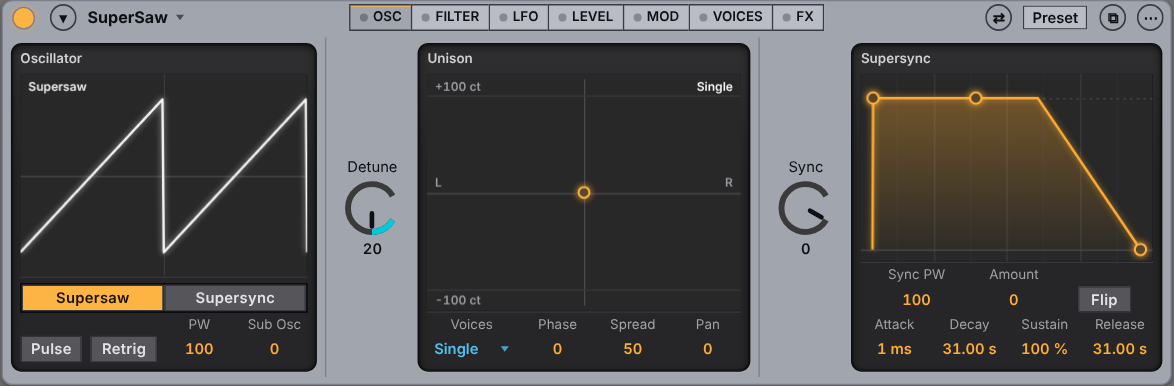
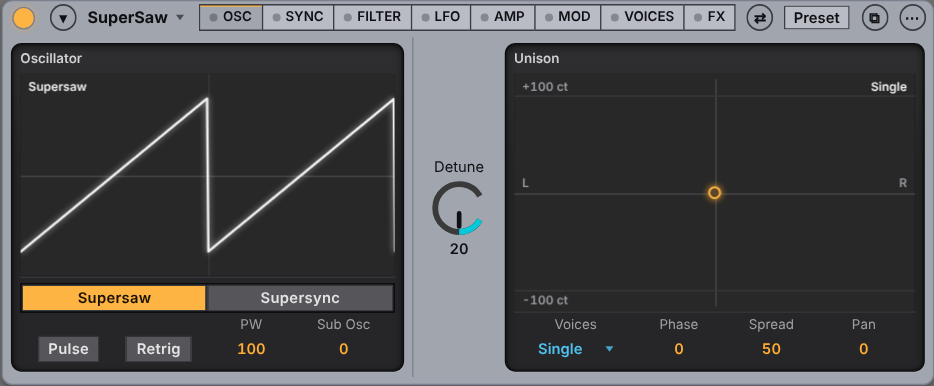
SuperSaw card redesign: OSC + Unison, own SYNC tab, AMP; narrower card
Claude-Session: https://claude.ai/code/session_016R99TjSh2G5U2VqVgMNHhT

diff --git a/js/flmpanels.js b/js/flmpanels.js
@@ -546,10 +546,12 @@ export function addFlmPanels(VI) {
       { name: 'Chorus', on: 33, build: () => DS('Chorus', { g: chorusDisp(k, { on: 33, rate: 34, mod: 35, mix: 36, min: 84, flm: true }), rows: [[NUM(k, 34, 'Rate'), NUM(k, 35, 'Mod'), NUM(k, 36, 'Mix')]] }) },
       { name: 'Phaser', on: 37, build: () => DS('Phaser', { g: phaserDisp(k, { on: 37, speed: 38, width: 39, fb: 40, freq: 41, mix: 42, min: 84, flm: true }), rows: [[NUM(k, 38, 'Speed'), NUM(k, 39, 'Width'), NUM(k, 40, 'Feedback'), NUM(k, 41, 'Freq'), NUM(k, 42, 'Mix')]] }) }])],
   ], { 2: () => k.get(12) !== 0, 3: () => k.get(13) !== 0, 5: () => [25, 28, 33, 37].some((o) => k.get(o) > 0.5) });
-  VI[33] = (k) => tabs(k, ['OSC', 'FILTER', 'LFO', 'LEVEL', 'MOD', 'VOICES', 'FX'], [
+  // SuperSaw (redesign 2026-11-16): one or two sections a tab as the other FLM synths (the old OSC tab held three side by side, ~1200 px):
+  // OSC = the oscillator + its unison, SYNC = Supersync's own sweep envelope (lit while the Osc Mode is Supersync), AMP = the amp envelope + output
+  VI[33] = (k) => tabs(k, ['OSC', 'SYNC', 'FILTER', 'LFO', 'AMP', 'MOD', 'VOICES', 'FX'], [
     () => [DS('Oscillator', { g: ssWave(k), rows: [CHH(k, 1, ['Supersaw', 'Supersync']), [TG(k, 0, 'Pulse', 46), TG(k, 2, 'Retrig', 50), NUM(k, 3, 'PW'), NUM(k, 4, 'Sub Osc')]] }),
-      DS('Unison', { k: [KN(k, 6, 'Detune')], g: ssUnison(k), rows: [[MEN(k, 5, 'Voices', 66), NUM(k, 9, 'Phase'), NUM(k, 8, 'Spread'), NUM(k, 7, 'Pan')]] }),
-      DS('Supersync', { k: [KN(k, 10, 'Sync')], g: env(k, 12, 13, 14, 15, OR), rows: [[NUM(k, 11, 'Sync PW'), NUM(k, 16, 'Amount'), TG(k, 17, 'Flip', 40)], ADSRN(k, 12, 13, 14, 15)] })],
+      DS('Unison', { k: [KN(k, 6, 'Detune')], g: ssUnison(k), rows: [[MEN(k, 5, 'Voices', 66), NUM(k, 9, 'Phase'), NUM(k, 8, 'Spread'), NUM(k, 7, 'Pan')]] })],
+    () => [DS('Supersync', { k: [KN(k, 10, 'Sync')], g: env(k, 12, 13, 14, 15, OR), rows: [[NUM(k, 11, 'Sync PW'), NUM(k, 16, 'Amount'), TG(k, 17, 'Flip', 40)], ADSRN(k, 12, 13, 14, 15)] })],
     () => [DS('Filter', { k: [KN(k, 18, 'Cutoff'), KN(k, 19, 'Reso')], g: filt(k, 18, 19, () => 0), rows: [[NUM(k, 20, 'Kbd Trk'), NUM(k, 21, 'Vel Trk')]] }),
       DS('Filter Envelope', { g: env(k, 22, 23, 24, 25, OR, () => 'Amount ' + Math.round(k.get(26))), rows: [ADSRN(k, 22, 23, 24, 25)], r: [KN(k, 26, 'Amount')] })],
     () => [DS('LFO', { k: [KN(k, 32, 'Amount')], g: lfo(k, { shape: 30, amt: 32, mode: 27, rate: 28, sync: 29, att: 31 }),
@@ -560,5 +562,5 @@ export function addFlmPanels(VI) {
     () => [fxPage(k, [
       { name: 'Distortion', build: () => DS('Distortion', { k: [KN(k, 52, 'Drive')], g: distWave(k, { drive: 52, dmax: 99, gain: 53 }), rows: [[NUM(k, 53, 'Gain')]] }) },
       { name: 'Delay', build: () => DS('Delay', { g: taps(k, { time: 54, fb: 55, filt: 56, mix: 57, beats: (i) => SS_DELAY_BEATS[clamp(Math.round(i), 0, 4)] }), rows: [[MEN(k, 54, 'Time', 64), NUM(k, 55, 'Feedback'), NUM(k, 56, 'Filter'), NUM(k, 57, 'Mix')]] }) }])],
-  ], { 2: () => k.get(32) !== 0, 6: () => k.get(52) > 0 || k.get(57) > 0 });
+  ], { 1: () => Math.round(k.get(1)) === 1, 3: () => k.get(32) !== 0, 7: () => k.get(52) > 0 || k.get(57) > 0 });
 }

diff --git a/sw.js b/sw.js
@@ -1,5 +1,5 @@
 // Offline cache. The cache name contains a hash of every file, so a new deploy replaces the old cache automatically.
-const CACHE = 'mobiledaw-8ffd0151dff3';
+const CACHE = 'mobiledaw-de83cc597508';
 const ASSETS = ["./", "./css/app.css", "./css/ableton.css", "./css/float.css", "./css/live.css", "./icons/icon-192.png", "./icons/icon-512.png", "./icons/icon-maskable-512.png", "./index.html", "./js/about.js", "./js/aboutdata.js", "./js/audioedit.js", "./js/autocurve.js", "./js/automate.js", "./js/autosave.js", "./js/browser.js", "./js/chords.js", "./js/colorpick.js", "./js/defs.js", "./js/demos.js", "./js/devices.js", "./js/devviz.js", "./js/drumpad.js", "./js/edgeguard.js", "./js/editor.js", "./js/engine.js", "./js/engine/analog.js", "./js/engine/audioops.js", "./js/engine/cmdtext.js", "./js/engine/core.js", "./js/engine/dsp.js", "./js/engine/drift.js", "./js/engine/ds.js", "./js/engine/fx.js", "./js/engine/fx2.js", "./js/engine/fx3.js", "./js/engine/fx4.js", "./js/engine/fx5.js", "./js/engine/fx6.js", "./js/engine/fx7.js", "./js/engine/fx8.js", "./js/engine/granulator.js", "./js/engine/impulse.js", "./js/engine/instruments.js", "./js/engine/live.js", "./js/engine/meld.js", "./js/engine/meter.js", "./js/engine/mp3.js", "./js/engine/mp3tables.js", "./js/engine/nativesink.js", "./js/engine/operator.js", "./js/engine/phys.js", "./js/engine/poli.js", "./js/engine/sabio.js", "./js/engine/sf2.js", "./js/engine/simpler.js", "./js/engine/flmsyn.js", "./js/engine/hdgms.js", "./js/engine/hdmfx.js", "./js/engine/hdmini.js", "./js/engine/hdsaw.js", "./js/engine/smf.js", "./js/engine/stretchworker.js", "./js/engine/tmap.js", "./js/engine/wav.js", "./js/engine/waveops.js", "./js/engine/mdaw.wasm", "./js/engine/wasmengine.js", "./js/engine/web.js", "./js/engine/worklet-wasm.js", "./js/engine/worklet.js", "./js/floatwin.js", "./js/fps.js", "./js/fxviz.js", "./js/fxkit.js", "./js/flmpanels.js", "./js/flmfx.js", "./js/flm3osc.js", "./js/flmlayout.js", "./js/flmlive.js", "./js/slicerdetect.js", "./js/fxlaw.js", "./js/flmviz.js", "./js/gesture.js", "./js/history.js", "./js/import/als.js", "./js/import/build.js", "./js/import/flm.js", "./js/import/flp.js", "./js/import/fxmap.js", "./js/import/gm.js", "./js/import/index.js", "./js/import/ui.js", "./js/keymap.js", "./js/keys.js", "./js/layout.js", "./js/liveinst.js", "./js/liveui.js", "./js/log.js", "./js/main.js", "./js/midi.js", "./js/midiio.js", "./js/minimeters.js", "./js/mmdraw.js", "./js/native.js", "./js/perf.js", "./js/mixer.js", "./js/prefs.js", "./js/presetlib.js", "./js/presets.js", "./js/project.js", "./js/projects.js", "./js/pwa.js", "./js/quicksave.js", "./js/reorder.js", "./js/safdir.js", "./js/settingsui.js", "./js/storage.js", "./js/tempo.js", "./js/theme.js", "./js/timeline.js", "./js/topbar.js", "./js/touchhit.js", "./js/ui.js", "./js/uiscale.js", "./js/waveform.js", "./js/zip.js", "./manifest.json"];
 self.addEventListener('install', (e) => { e.waitUntil(caches.open(CACHE).then((c) => c.addAll(ASSETS)).then(() => self.skipWaiting())); });
 self.addEventListener('activate', (e) => {

diff --git a/docs/HANDOFF.md b/docs/HANDOFF.md
@@ -787,3 +787,4 @@ Permintaan pemilik: SEMUA efek dan instrumen diganti dengan set stok Ableton Liv
 - Tombol card FX / instrumen + Device/Keys (pemilik 2026-11-16, Live 12): `.lv-btn` persegi (radius 1px) dengan outline 1px `--btn-bd` (terang #3a3c43, Dark Live 12 #16171c, lainnya `--lv-edge`); varian bergaris warna (cyan/oranye, tuts piano, tombol bulat) tetap. Tab seksi di judul card persegi, tab terbuka = warna body + garis oranye atas. Judul card: ⇄ ⧉ ⋯ ▾ ikon polos tanpa kotak; Mix / Preset field persegi kecil (Mix aktif = oranye). Device / Keys = pasangan field seperti Arrange/Mixer. Contoh: `docs/redesign/buttons/`.
 - Impor FLM (2026-11-16): STR1/STRC per Honeydew `read.rs slot()` + `sample_cache.rs str1()` — STR1 menang penuh (mode, rasio, semitone); STRC saja = mode 1 + semitone dibulatkan; rasio hanya saat SYNC on, semitone selalu; Speed (PRMS[2]) selalu resample di atasnya (digabung jadi satu warp: rasio x 2^(-rp/12), pitch st+rp). Pad drum kini membaca STR1/STRC juga (`q.warp` -> `q.dsample` dirender saat load, dipakai `sendPad`). Klip SYNC dengan rasio != 1 diberi `srcBpm = rasio x bpm`, `warpAuto` (ikut perubahan tempo seperti Honeydew `song/tempo.rs`), `swing: 0`. Bukti: HIPDUT punya 3 pad SYNC (1.135-1.477) yang dulu diputar tanpa stretch; Caest La vie: 677/677 klip warp dirender dengan panjang benar (web).
 - Layering instrumen (FLM: semua instrumen di rack channel berbunyi, Honeydew `process_racks`): channel dengan 2+ synth -> Instrument Rack, chain k = instrumen k + efek di antara instrumen k dan instrumen terakhir; efek setelah instrumen terakhir tetap di track. Efek di chain ikut dikonversi ke modul FLM (`migrateJson`). `IRACK_INSTS` diperluas (Transistor Bass, 3x Osc, synth Live); chain tanpa layout panel menampilkan grid knob. Tes: import-test (model sintetis).
+- SuperSaw (redesign 2026-11-16): tab OSC (Oscillator + Unison), SYNC (Supersync, lampu tab menyala saat Osc Mode = Supersync), FILTER, LFO, AMP, MOD, VOICES, FX; kartu ~974 px (dulu ~1220 px dengan 3 panel). Gambar: docs/redesign/supersaw/.
